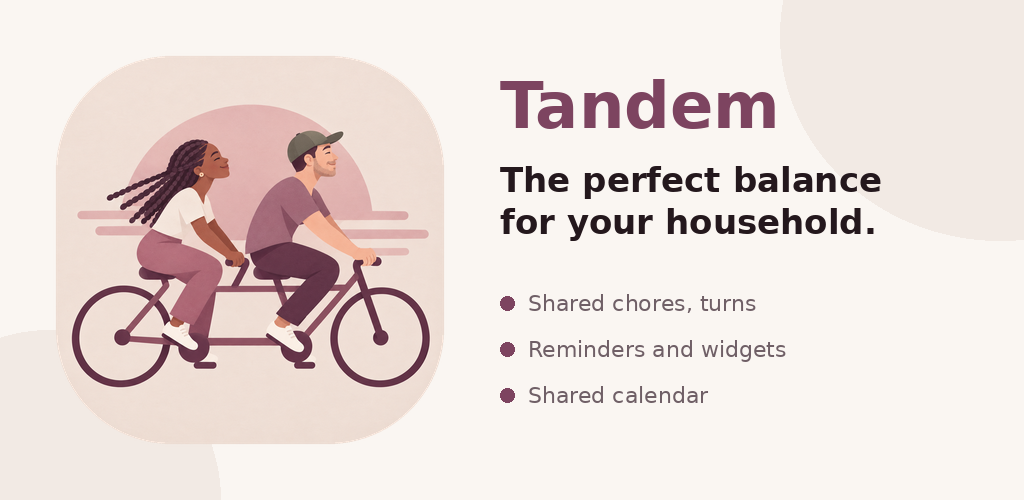
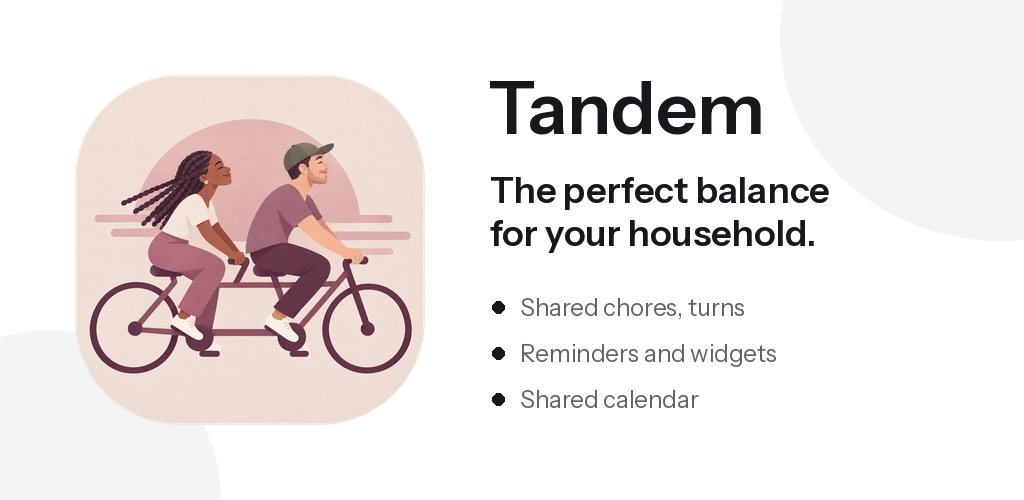
Fiche Google Play aux couleurs « Duo » : bannière, captures traduites, nl
- Bannière 1024 × 500 en Instrument Sans, fond blanc et encre, pour fr, en et nl
  (scripts/generate-icons.py --play pour ne refaire que la fiche).
- Captures de la fiche : foyer d'Emma et Tom, données traduites dans chaque langue,
  capture Courses en plus, classe nl-NL.
- Le workflow de la fiche refait les captures depuis l'app avant l'envoi (artefact
  play-captures) ; l'étiquette « captures » les joint aussi à android-captures.

Claude-Session: https://claude.ai/code/session_015VHKVTPtEGJEjvAhjHkTaK

diff --git a/apps/android/app/src/test/java/app/tandem/foyer/ui/StoreScreenshotsTest.kt b/apps/android/app/src/test/java/app/tandem/foyer/ui/StoreScreenshotsTest.kt
@@ -12,11 +12,14 @@ import app.tandem.foyer.domain.Agenda
 import app.tandem.foyer.domain.RecurrenceSpec
 import app.tandem.foyer.domain.RepeatPreset
 import app.tandem.foyer.domain.RotationKind
+import app.tandem.foyer.domain.model.ShoppingItem
 import app.tandem.foyer.domain.model.TaskDraft
+import app.tandem.foyer.domain.repository.SyncState
 import app.tandem.foyer.testing.Fixtures
 import app.tandem.foyer.testing.Fixtures.TODAY
 import app.tandem.foyer.ui.calendar.CalendarScreen
 import app.tandem.foyer.ui.main.AgendaUiState
+import app.tandem.foyer.ui.shopping.ShoppingScreen
 import app.tandem.foyer.ui.taskform.TaskFormScreen
 import app.tandem.foyer.ui.taskform.TaskFormState
 import app.tandem.foyer.ui.tasks.TasksScreen
@@ -36,16 +39,35 @@ import java.time.YearMonth
  * Captures de la fiche Play Store (fastlane/metadata/android/<langue>/images/phoneScreenshots),
  * 1080 × 2160 (rapport 2:1 maximum exigé par Google Play). Générées seulement sur demande :
  * ./gradlew testDebugUnitTest --tests '*StoreScreenshots*' -Pscreenshots
+ * (ou le workflow « Google Play — mettre à jour la fiche », case des images cochée).
+ * Foyer public d'Emma et Tom, données traduites dans la langue de la fiche.
  */
 abstract class StoreScreenshots(private val locale: String) {
     @get:Rule val compose = createComposeRule()
 
+    /** Texte de démonstration dans la langue de la fiche (français par défaut). */
+    private fun tr(fr: String): String {
+        val (en, nl) = DATA[fr] ?: return fr
+        return when (locale) { "en-US" -> en; "nl-NL" -> nl; else -> fr }
+    }
+
+    private val members = Fixtures.household.members.map {
+        if (it.id == Fixtures.GRACE) it.copy(displayName = "Emma") else it.copy(displayName = "Tom")
+    }
+    private val cleaning = Fixtures.cleaning.copy(name = tr(Fixtures.cleaning.name))
+    private val groceries = Fixtures.groceries.copy(name = tr(Fixtures.groceries.name))
+
     private val state = AgendaUiState(
         loaded = true,
-        household = Fixtures.household,
+        household = Fixtures.household.copy(name = "Emma & Tom", members = members),
         myMemberId = Fixtures.GRACE,
-        occurrences = Fixtures.week(),
-        categories = listOf(Fixtures.cleaning, Fixtures.groceries),
+        occurrences = Fixtures.week().map { occ ->
+            occ.copy(
+                title = tr(occ.title),
+                category = occ.category?.let { if (it.id == cleaning.id) cleaning else groceries },
+            )
+        },
+        categories = listOf(cleaning, groceries),
         today = TODAY,
     )
 
@@ -64,13 +86,13 @@ abstract class StoreScreenshots(private val locale: String) {
 
     @Test fun form() = shot("2_repeat") {
         val draft = TaskDraft(
-            title = "Sortir les poubelles", date = TODAY, startMinute = 1200, durationMinutes = 15,
+            title = tr("Sortir les poubelles"), date = TODAY, startMinute = 1200, durationMinutes = 15,
             assigneeIds = listOf(Fixtures.NICOLAS, Fixtures.GRACE), syncToCalendar = true,
             recurrence = RecurrenceSpec(preset = RepeatPreset.WEEKLY, rotation = RotationKind.ALTERNATE),
         )
         TaskFormScreen(
-            TaskFormState(loading = false, draft = draft, members = Fixtures.household.members),
-            Fixtures.household.members, listOf(Fixtures.cleaning), calendarAvailable = true,
+            TaskFormState(loading = false, draft = draft, members = members),
+            members, listOf(cleaning), calendarAvailable = true,
             onEdit = {}, onSave = {}, onDelete = {}, onConfirmDelete = {}, onScope = {}, onDismissDialogs = {}, onBack = {},
         )
     }
@@ -81,7 +103,48 @@ abstract class StoreScreenshots(private val locale: String) {
 
     @Test fun tasks() = shot("4_tasks") { TasksScreen(state, Agenda.Filter(), {}, {}, {}, {}) }
 
-    @Test fun dark() = shot("5_dark", dark = true) { TodayScreen(state, {}, {}, {}, {}) }
+    @Test fun shopping() = shot("5_shopping") {
+        val items = listOf(
+            ShoppingItem("1", tr("Tomates"), false, aisle = "PRODUCE"),
+            ShoppingItem("2", tr("Bananes"), false, aisle = "PRODUCE"),
+            ShoppingItem("3", tr("Baguette"), false, aisle = "BAKERY"),
+            ShoppingItem("4", tr("Lait"), false, quantity = "x6", aisle = "DAIRY"),
+            ShoppingItem("5", tr("Yaourts"), false, aisle = "DAIRY"),
+            ShoppingItem("6", tr("Liquide vaisselle"), false, aisle = "HOUSEHOLD"),
+            ShoppingItem("7", tr("Café"), true, Fixtures.NICOLAS, aisle = "PANTRY"),
+            ShoppingItem("8", tr("Œufs"), true, Fixtures.GRACE, aisle = "DAIRY"),
+        )
+        ShoppingScreen(
+            items = items, members = state.members, online = true, live = true, sync = SyncState(), refreshing = false,
+            onRefresh = {}, onAdd = {}, onToggle = {}, onRemove = {}, onClearDone = {},
+        )
+    }
+
+    @Test fun dark() = shot("6_dark", dark = true) { TodayScreen(state, {}, {}, {}, {}) }
+
+    private companion object {
+        /** Français → (anglais, néerlandais). */
+        val DATA = mapOf(
+            "Sortir les poubelles" to ("Take out the bins" to "Vuilnis buitenzetten"),
+            "Nettoyer la salle de bain" to ("Clean the bathroom" to "Badkamer schoonmaken"),
+            "Arroser les plantes" to ("Water the plants" to "Planten water geven"),
+            "Courses de la semaine" to ("Weekly groceries" to "Weekboodschappen"),
+            "Payer l'assurance auto" to ("Pay the car insurance" to "Autoverzekering betalen"),
+            "Changer les draps" to ("Change the sheets" to "Bed verschonen"),
+            "Appeler le plombier" to ("Call the plumber" to "Loodgieter bellen"),
+            "Rendez-vous dentiste" to ("Dentist appointment" to "Afspraak tandarts"),
+            "Ménage" to ("Cleaning" to "Schoonmaak"),
+            "Courses" to ("Groceries" to "Boodschappen"),
+            "Tomates" to ("Tomatoes" to "Tomaten"),
+            "Bananes" to ("Bananas" to "Bananen"),
+            "Baguette" to ("Baguette" to "Stokbrood"),
+            "Lait" to ("Milk" to "Melk"),
+            "Yaourts" to ("Yoghurt" to "Yoghurt"),
+            "Liquide vaisselle" to ("Dish soap" to "Afwasmiddel"),
+            "Café" to ("Coffee" to "Koffie"),
+            "Œufs" to ("Eggs" to "Eieren"),
+        )
+    }
 }
 
 @RunWith(AndroidJUnit4::class)
@@ -93,3 +156,8 @@ class StoreScreenshotsFr : StoreScreenshots("fr-FR")
 @GraphicsMode(GraphicsMode.Mode.NATIVE)
 @Config(qualifiers = "en-rUS-w360dp-h720dp-xxhdpi")
 class StoreScreenshotsEn : StoreScreenshots("en-US")
+
+@RunWith(AndroidJUnit4::class)
+@GraphicsMode(GraphicsMode.Mode.NATIVE)
+@Config(qualifiers = "nl-rNL-w360dp-h720dp-xxhdpi")
+class StoreScreenshotsNl : StoreScreenshots("nl-NL")

diff --git a/scripts/generate-icons.py b/scripts/generate-icons.py
@@ -2,11 +2,13 @@
 """Génère les icônes (Android, web) depuis docs/brand/logo-source.png.
 
 Usage : pip install pillow && python3 scripts/generate-icons.py
+        (`--play` : seulement l'icône et la bannière de la fiche Google Play)
 Le logo source est un carré arrondi sur fond blanc ; on en tire :
 - une version « pleine » (coins remplis avec la couleur de fond) pour les icônes que le système
   découpe lui-même (Android adaptatif, iOS, PWA maskable) ;
 - une version « découpée » (coins transparents) pour le favicon et l'écran de connexion.
 """
+import sys
 from pathlib import Path
 
 from PIL import Image, ImageDraw, ImageFilter, ImageFont
@@ -14,7 +16,8 @@ from PIL import Image, ImageDraw, ImageFilter, ImageFont
 ROOT = Path(__file__).resolve().parent.parent
 SRC = ROOT / "docs/brand/logo-source.png"
 FASTLANE = ROOT / "apps/android/fastlane/metadata/android"
-FONT = "/usr/share/fonts/truetype/dejavu/DejaVuSans{}.ttf"  # apt install fonts-dejavu-core
+# Instrument Sans, la police de l'app (licence OFL), en TTF : Pillow ne lit pas le woff2.
+FONT = ROOT / "apps/android/app/src/main/res/font/instrument_sans_{}.ttf"
 
 # Bannière Play Store (1024 × 500) : nom, slogan, trois atouts, par langue de la fiche.
 FEATURE_TEXT = {
@@ -22,6 +25,8 @@ FEATURE_TEXT = {
               ["Tâches à deux, tours de rôle", "Rappels et widgets", "Calendrier partagé"]),
     "en-US": ("The perfect balance\nfor your household.",
               ["Shared chores, turns", "Reminders and widgets", "Shared calendar"]),
+    "nl-NL": ("De perfecte balans\nvoor je huishouden.",
+              ["Taken samen, om de beurt", "Herinneringen en widgets", "Gedeelde agenda"]),
 }
 
 
@@ -52,6 +57,8 @@ def load(src=SRC):
 
 def main():
     crop, mask, bg = load()
+    if "--play" in sys.argv[1:]:
+        return play_listing(crop, mask, bg)
     side = crop.size[0]
     full = Image.new("RGB", (side, side), bg)
     full.paste(crop, (0, 0), mask)
@@ -113,7 +120,17 @@ def main():
         w.save(public / "brand/tandem-wordmark.png", optimize=True)
         w.save(docs_img / "tandem-wordmark.png", optimize=True)
 
-    # Play Store (512, carré plein : Google applique ses propres coins).
+    play_listing(crop, mask, bg)
+    print(f"ok — fond {hex_bg}")
+
+
+def play_listing(crop, mask, bg):
+    """Icône 512 et bannière de la fiche Google Play, pour chaque langue."""
+    side = crop.size[0]
+    full = Image.new("RGB", (side, side), bg)
+    full.paste(crop, (0, 0), mask)
+    rounded = crop.convert("RGBA")
+    rounded.putalpha(mask)
     # Fond plein (aucun blanc, aucun cadre) : Google applique lui-même ses coins arrondis.
     # L'illustration, réduite pour laisser respirer les roues, est découpée juste à l'intérieur
     # du carré arrondi d'origine (son liseré disparaît) et fondue dans la couleur du fond.
@@ -131,28 +148,28 @@ def main():
     # Fiche Google Play (fastlane) : icône et bannière de chaque langue.
     for locale, (tagline, bullets) in FEATURE_TEXT.items():
         images = FASTLANE / locale / "images"
+        images.mkdir(parents=True, exist_ok=True)
         play.save(images / "icon.png", optimize=True)
         feature_graphic(rounded, tagline, bullets).save(images / "featureGraphic.png", optimize=True)
-    print(f"ok — fond {hex_bg}")
 
 
 def feature_graphic(logo, tagline, bullets):
-    """Bannière 1024 × 500 aux couleurs de l'app (design-tokens : fond, accent, textes)."""
-    bg, shade, accent = (250, 246, 242), (242, 234, 228), (125, 68, 96)
-    text, muted = (36, 24, 29), (111, 95, 102)
+    """Bannière 1024 × 500 aux couleurs « Duo » (design-tokens : fond blanc, gris, encre)."""
+    bg, shade, ink, muted = (255, 255, 255), (243, 244, 246), (23, 24, 28), (95, 99, 107)
     im = Image.new("RGB", (1024, 500), bg)
     d = ImageDraw.Draw(im)
     d.ellipse((780, -170, 1220, 240), fill=shade)
     d.ellipse((-120, 330, 220, 670), fill=shade)
-    im.paste(logo.resize((400, 400), Image.LANCZOS), (50, 50), logo.resize((400, 400), Image.LANCZOS))
-    bold = lambda size: ImageFont.truetype(FONT.format("-Bold"), size)
-    d.text((500, 68), "Tandem", font=bold(64), fill=accent)
-    d.multiline_text((500, 160), tagline, font=bold(34), fill=text, spacing=10)
-    regular = ImageFont.truetype(FONT.format(""), 22)
+    art = logo.resize((360, 360), Image.LANCZOS)
+    im.paste(art, (70, 70), art)
+    font = lambda weight, size: ImageFont.truetype(str(FONT).format(weight), size)
+    d.text((488, 64), "Tandem", font=font("semibold", 72), fill=ink)
+    d.multiline_text((490, 168), tagline, font=font("semibold", 36), fill=ink, spacing=8)
+    regular = font("regular", 24)
     for i, line in enumerate(bullets):
-        y = 290 + i * 46
-        d.ellipse((500, y + 6, 514, y + 20), fill=accent)
-        d.text((528, y), line, font=regular, fill=muted)
+        y = 292 + i * 46
+        d.ellipse((492, y + 9, 504, y + 21), fill=ink)
+        d.text((520, y), line, font=regular, fill=muted)
     return im
 
 

diff --git a/docs/play-store.md b/docs/play-store.md
@@ -61,8 +61,7 @@ versions et toujours croissants.
      immédiate ; sauvegardes effacées sous 14 jours (serveur) et 30 jours (hors serveur).
 4. **Fiche Play Store** (*Présence sur le Store → Fiche principale*) : copier les textes et
    images de `apps/android/fastlane/metadata/android`
-   (`fr-FR`, puis `en-US` et `nl-NL` en traduction ; `nl-NL` n'a pas d'images propres : reprendre
-   celles de `en-US`) :
+   (`fr-FR`, puis `en-US` et `nl-NL` en traduction, chacune avec ses images) :
 
    | Champ | Fichier | Limite |
    |---|---|---|
@@ -71,7 +70,7 @@ versions et toujours croissants.
    | Description complète | `full_description.txt` | 4000 |
    | Icône 512 × 512 | `images/icon.png` | PNG 32 bits |
    | Image de présentation 1024 × 500 | `images/featureGraphic.png` | |
-   | Captures de téléphone (5) | `images/phoneScreenshots/*.png` | 1080 × 2160 |
+   | Captures de téléphone (6) | `images/phoneScreenshots/*.png` | 1080 × 2160 |
    | Notes de version | `changelogs/default.txt` | 500 |
 
    Catégorie : **Productivité**. Coordonnées : une adresse e-mail de contact (obligatoire,
@@ -160,7 +159,11 @@ Une version déjà envoyée en test interne se passe au test fermé sans nouvel 
   Gérer les traductions*), créer la variable de dépôt `PLAY_LISTING_NL=true` (GitHub → Settings →
   Secrets and variables → Actions → Variables) : la CI joindra alors aussi les notes `nl-NL`.
   Avant, Google Play refuserait l'envoi (langue absente de la fiche).
-- Captures (rendues depuis les vrais écrans, données fictives) :
+- Captures (six : Aujourd'hui, répétition, calendrier, tâches, courses, mode sombre) : rendues
+  depuis les vrais écrans (`StoreScreenshotsTest`), foyer fictif d'Emma et Tom, données traduites
+  dans chaque langue. Le workflow de la fiche les **refait lui-même** quand la case des images est
+  cochée (les fichiers du dépôt peuvent donc dater) et les garde dans l'artefact `play-captures`.
+  Pour les voir avant : étiquette `captures` sur une PR (artefact `android-captures`), ou en local :
 
   ```bash
   cd apps/android
@@ -168,12 +171,13 @@ Une version déjà envoyée en test interne se passe au test fermé sans nouvel 
   ```
 
 - Icône 512 × 512 et image de présentation 1024 × 500 (`images/icon.png`,
-  `images/featureGraphic.png`, les deux langues) : générées depuis le logo, avec les autres icônes.
-  Les textes de la bannière sont dans `FEATURE_TEXT` du script. Sans marque tierce (pas de
-  « Google » dans les visuels, règle de Google Play).
+  `images/featureGraphic.png`, les trois langues) : générées depuis le logo, aux couleurs « Duo »
+  et en Instrument Sans. Les textes de la bannière sont dans `FEATURE_TEXT` du script. Sans marque
+  tierce (pas de « Google » dans les visuels, règle de Google Play).
 
   ```bash
-  pip install pillow && python3 scripts/generate-icons.py
+  pip install pillow && python3 scripts/generate-icons.py --play   # fiche Play seulement
+  pip install pillow && python3 scripts/generate-icons.py          # toutes les icônes
   ```
 
 ## 7. Vérifications avant envoi

diff --git a/docs/roadmap.md b/docs/roadmap.md
@@ -52,7 +52,8 @@ Source : [audit du 8 octobre 2026](audits/2026-10-08.md). Légende : effort S / 
       Nog te bepalen », « À rattraper » 🌐🤖
 - [x] Captures Android : Dépenses (clair, sombre), Plus en sombre, police 200 % ; captures de
       la fiche Play régénérées (fr, en) 🤖
-- [ ] Captures de la fiche Play en néerlandais (quand la fiche nl-NL existera) 🤖
+- [x] Captures de la fiche Play en néerlandais (prêtes ; envoyées quand la fiche nl-NL existera)
+      🤖 (#122)
 
 ### Lot 3 — Confort et finitions ✅ (#88)
 
@@ -317,7 +318,9 @@ aubergine.
 - [x] Animations : coche, ligne faite, feuille à ressort, « Journée bouclée » (M) 🌐🤖 (#119)
 - [x] Site vitrine aux couleurs du nouveau thème : police, halos et barres neutres, captures et
   images de partage refaites dans les trois langues (S) 🪧 (#120)
-- [ ] Logo et vidéo du site encore dans les anciens tons (prune) : à refaire avec A3 (vidéo par
+- [x] Fiche Play aux couleurs « Duo » : bannière en Instrument Sans (fr, en, nl), six captures
+  (Courses en plus) d'Emma et Tom traduites, refaites par le workflow de la fiche (S) 🤖 (#122)
+- [ ] Logo (icône de l'app, de la fiche Play) et vidéo du site encore dans les anciens tons (prune) : à refaire avec A3 (vidéo par
   langue) (M) 🪧
 
 ### Propositions de design

diff --git a/docs/changelog.md b/docs/changelog.md
@@ -15,6 +15,11 @@ d'elle-même (ou via Google Play).
 
 ## 30 octobre 2026
 
+### Fiche Google Play aux couleurs « Duo » (#122)
+
+- 🛠 **Nouveaux visuels sur Google Play** : bannière dans le nouveau style, et six captures de
+  l'app actuelle (avec la liste de courses) dans la langue de la fiche, néerlandais compris.
+
 ### Calendrier : ajout rapide au jour choisi, vue Semaine sur Android (#121)
 
 - ✨ **« Qu'est-ce qu'on fait jeudi ? »** : dans le calendrier (vue jour, ou jour touché du mois
